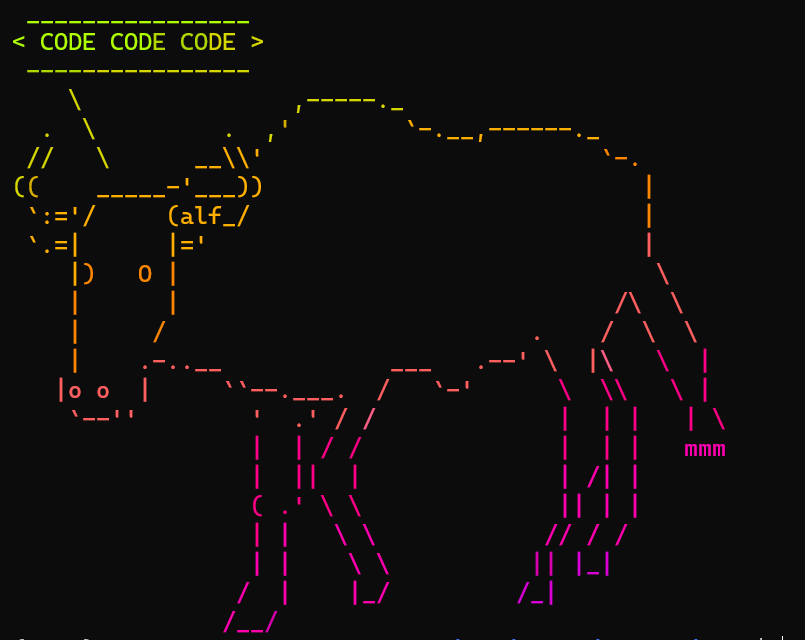
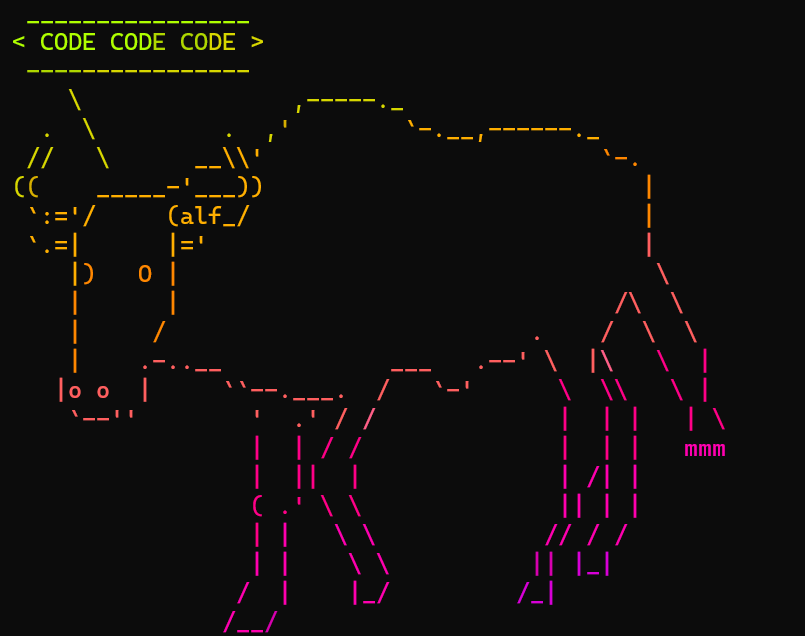
uncentered code code code

diff --git a/index.html b/index.html
@@ -4,18 +4,15 @@ search_exclude: true
 image: images/logo.png
 ---
 
-<!DOCTYPE html>
 <html>
 <body>
 
 <style>
-h1 {text-align: center;}
 p {text-align: center;}
-img {text-align: center;}
 
 </style>
 
-<h1>Welcome to Rohit De's fastpages site!</h1>
+<p>Welcome to Rohit De's fastpages site!</p>
 
 
 <img src="images/codecodecode.png" alt="codecodecode" class="center"> 
